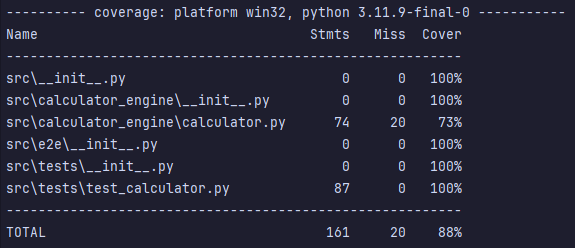
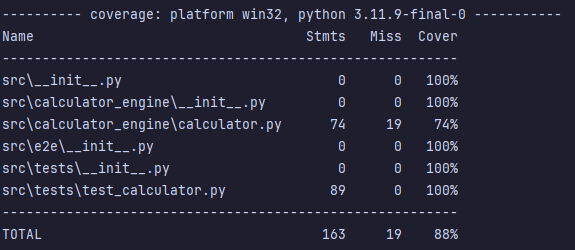
updated unit tests

diff --git a/src/tests/test_calculator.py b/src/tests/test_calculator.py
@@ -3,19 +3,13 @@ from src.calculator_engine.calculator import perform_calculation, factorial
 
 
 
-def test_index_route(client):
-    response = client.get('/')
-    assert response.status_code == 200
-    assert b"Enter value(s) below and select an operation." in response.data
+
 
 def test_invalid_operation():
     result = perform_calculation(2, 3, 'invalid')
     assert result == 'Invalid operation'
 
-def test_calculate_route(client):
-    response = client.post('/calculate', data=dict(num1='2', operation='+', num2='3'))
-    assert response.status_code == 200
-    assert b"5" in response.data
+
 
  # preq-UNIT-TEST-2
 def test_addition():
